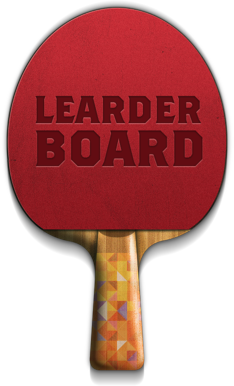
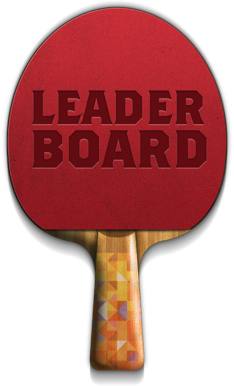
Fix last misspelling, ready to submit!

Changed region(s): [[0.1197, 0.2176, 0.8974, 0.4352]]

diff --git a/Pong Madness/PMLobbyViewController.m b/Pong Madness/PMLobbyViewController.m
@@ -289,7 +289,7 @@ typedef enum {
 
 - (IBAction)playDoubleGame:(id)sender {
     
-    UIAlertView *alert = [[UIAlertView alloc] initWithTitle:@"Not this time"
+    UIAlertView *alert = [[UIAlertView alloc] initWithTitle:@"Not This Time"
                                                     message:@"This feature is not here yet, but it's coming soon! Stay tuned."
                                                    delegate:nil cancelButtonTitle:@"Ok" otherButtonTitles:nil];
     [alert show];
